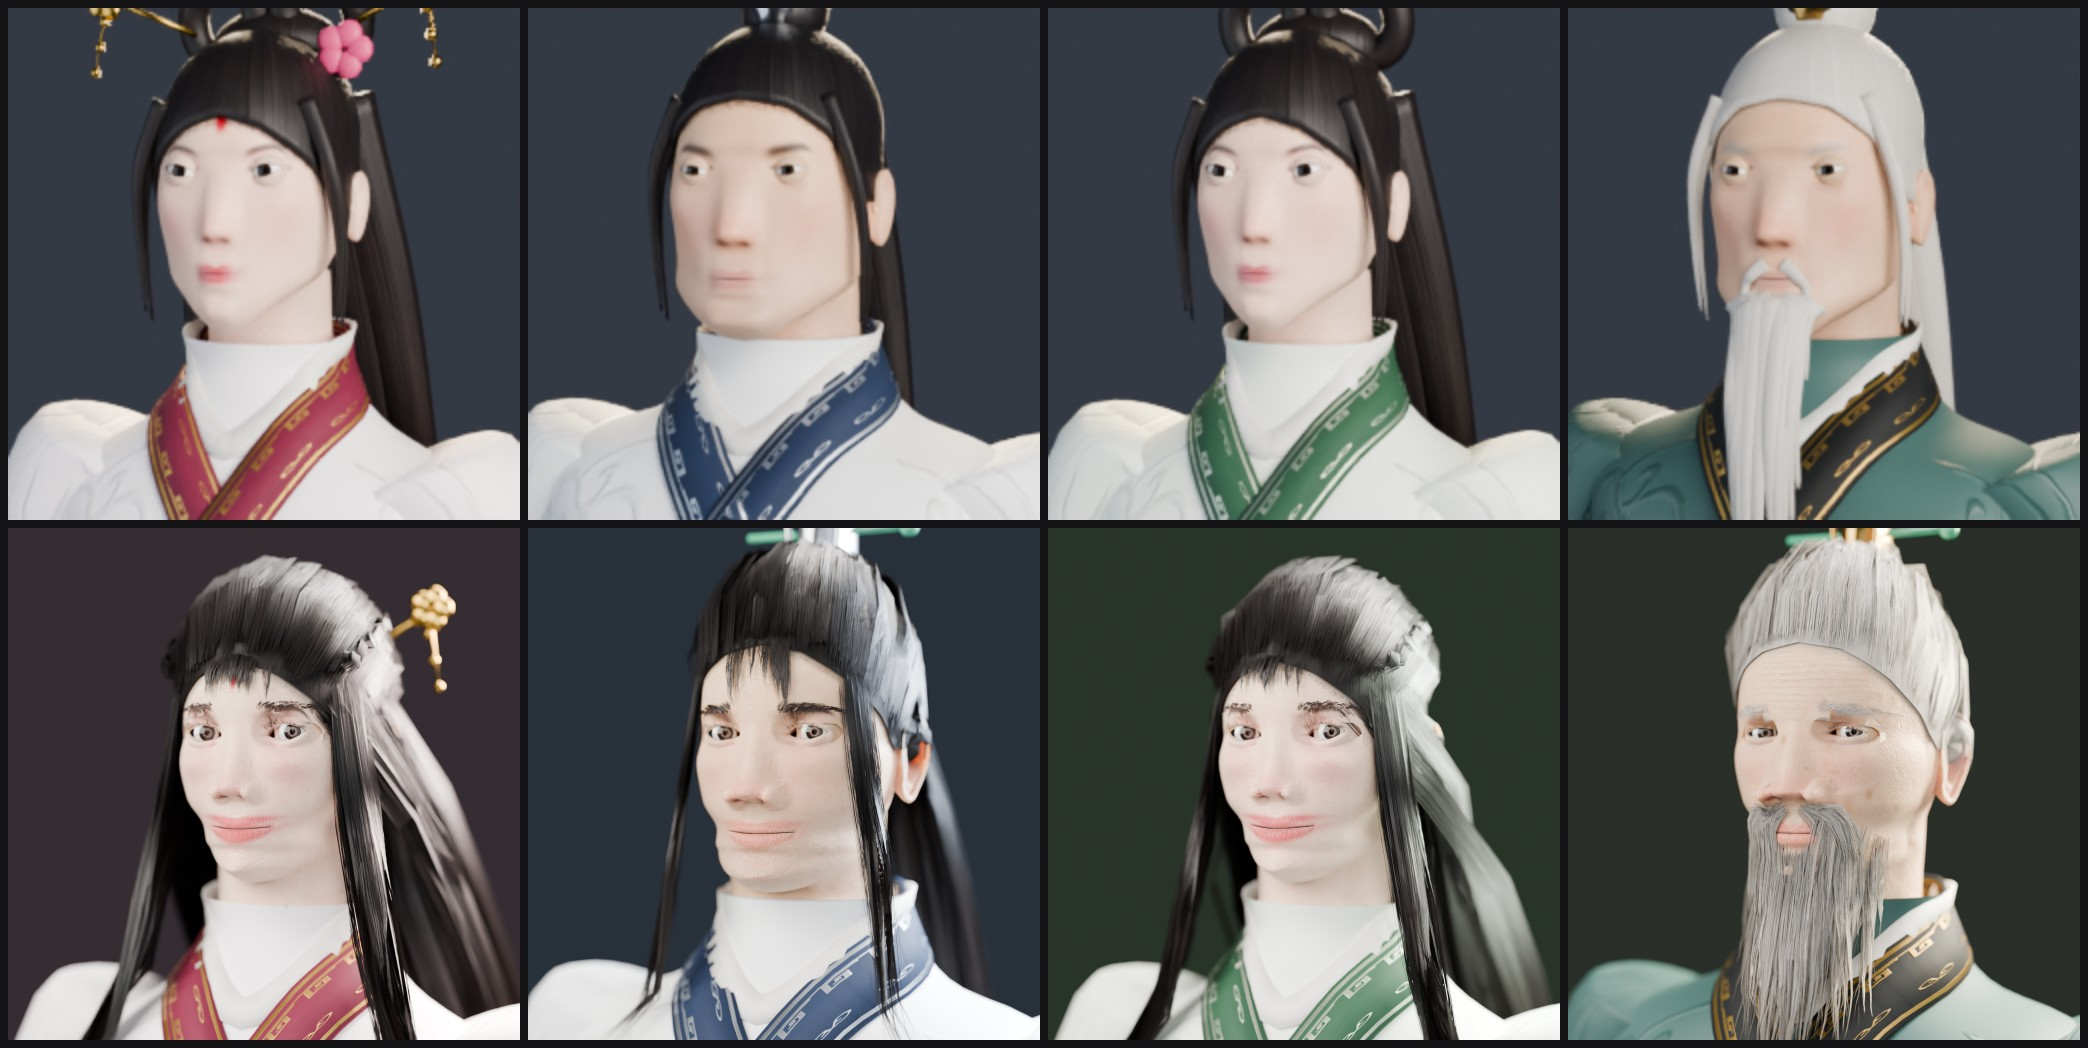
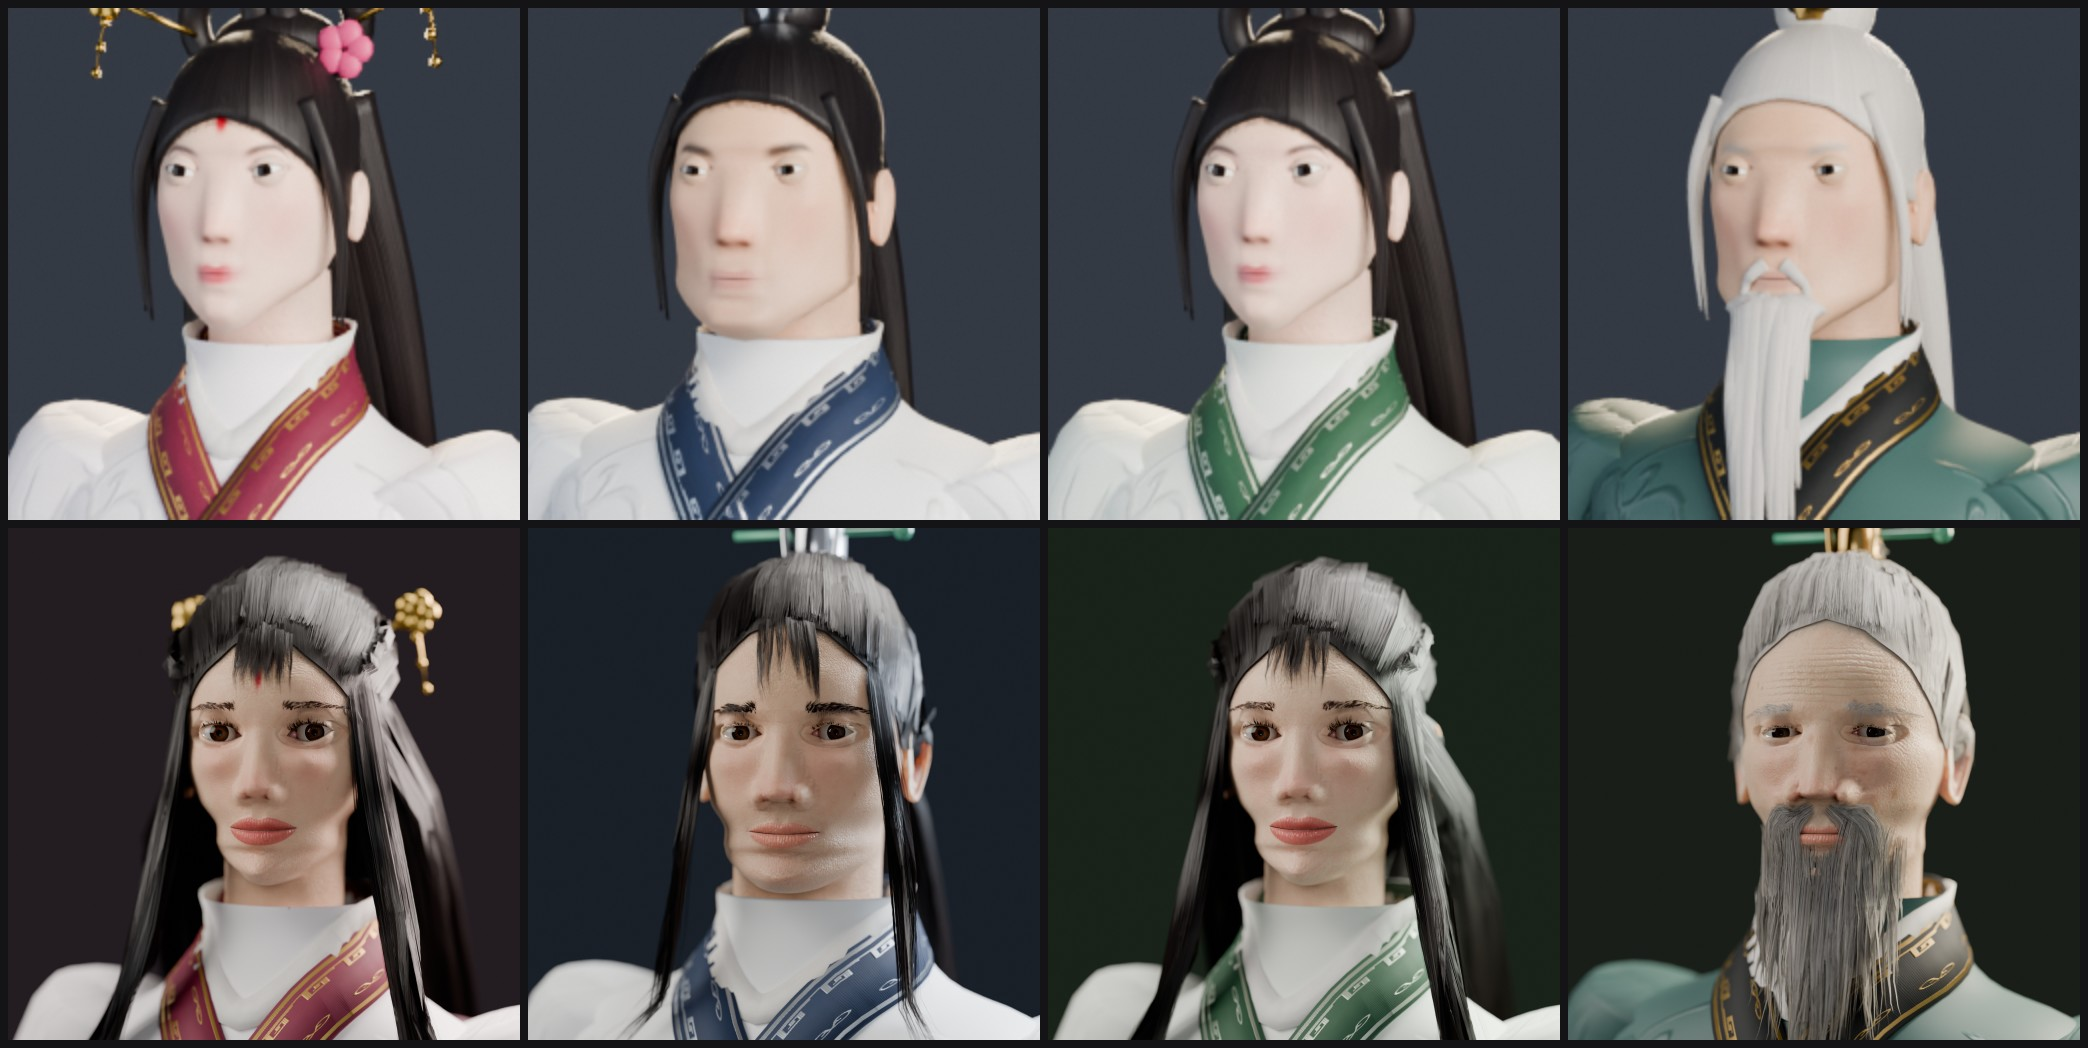
docs: face realism sheet after the second pass
Claude-Session: https://claude.ai/code/session_01EN1kjXPAfDEKoNwEgp25mB

Changed region(s): [[0.0, 0.4885, 0.9962, 1.0]]

diff --git a/docs/screenshots/AGENTS.md b/docs/screenshots/AGENTS.md
@@ -12,7 +12,7 @@ workstreams. They sit outside `godot/`, so Godot never imports them, and no tool
 | `world_<map>_<view>` | `godot/tests/capture_world_shots.gd` (explicit camera positions) |
 | `characters_turnaround` | `blender/render_previews.py` (Cycles turnaround of both heroes) |
 | `realism_face`, `realism_profile`, `realism_hand`, `hair_skin` | one-off Cycles close-ups made with the `blender/xianxia/preview.py` helpers. No committed script writes them, so re-create them with `preview.setup` / `camera` / `render` |
-| `face_realism` | before/after face sheet: top row the committed `godot/ui/portraits` of cultivator_female, cultivator_male, disciple_female, elder_male before the landmark head; bottom row `python blender/render_portraits.py --only ... --samples 112 --size 512` after it, tiled 2x4 |
+| `face_realism` | before/after face sheet: top row the committed `godot/ui/portraits` of cultivator_female, cultivator_male, disciple_female, elder_male before the landmark head; bottom row `python blender/render_portraits.py --only ... --samples 112 --size 512` after it (second realism pass: `--samples 112 --size 512`), tiled 2x4 |
 | `animations_sheet`, `gait_walk_run` | `blender/render_animation_sheet.py` (default out is `docs/screenshots/animations_sheet.jpg`; gait strips with `--strips walk,run --travel`) |
 | `quest_props`, `items` | `blender/render_props_sheet.py --kind props` / `--kind items` |
 | `dialogue_voiced_2000q.png` | an in-game capture kept as PNG |
